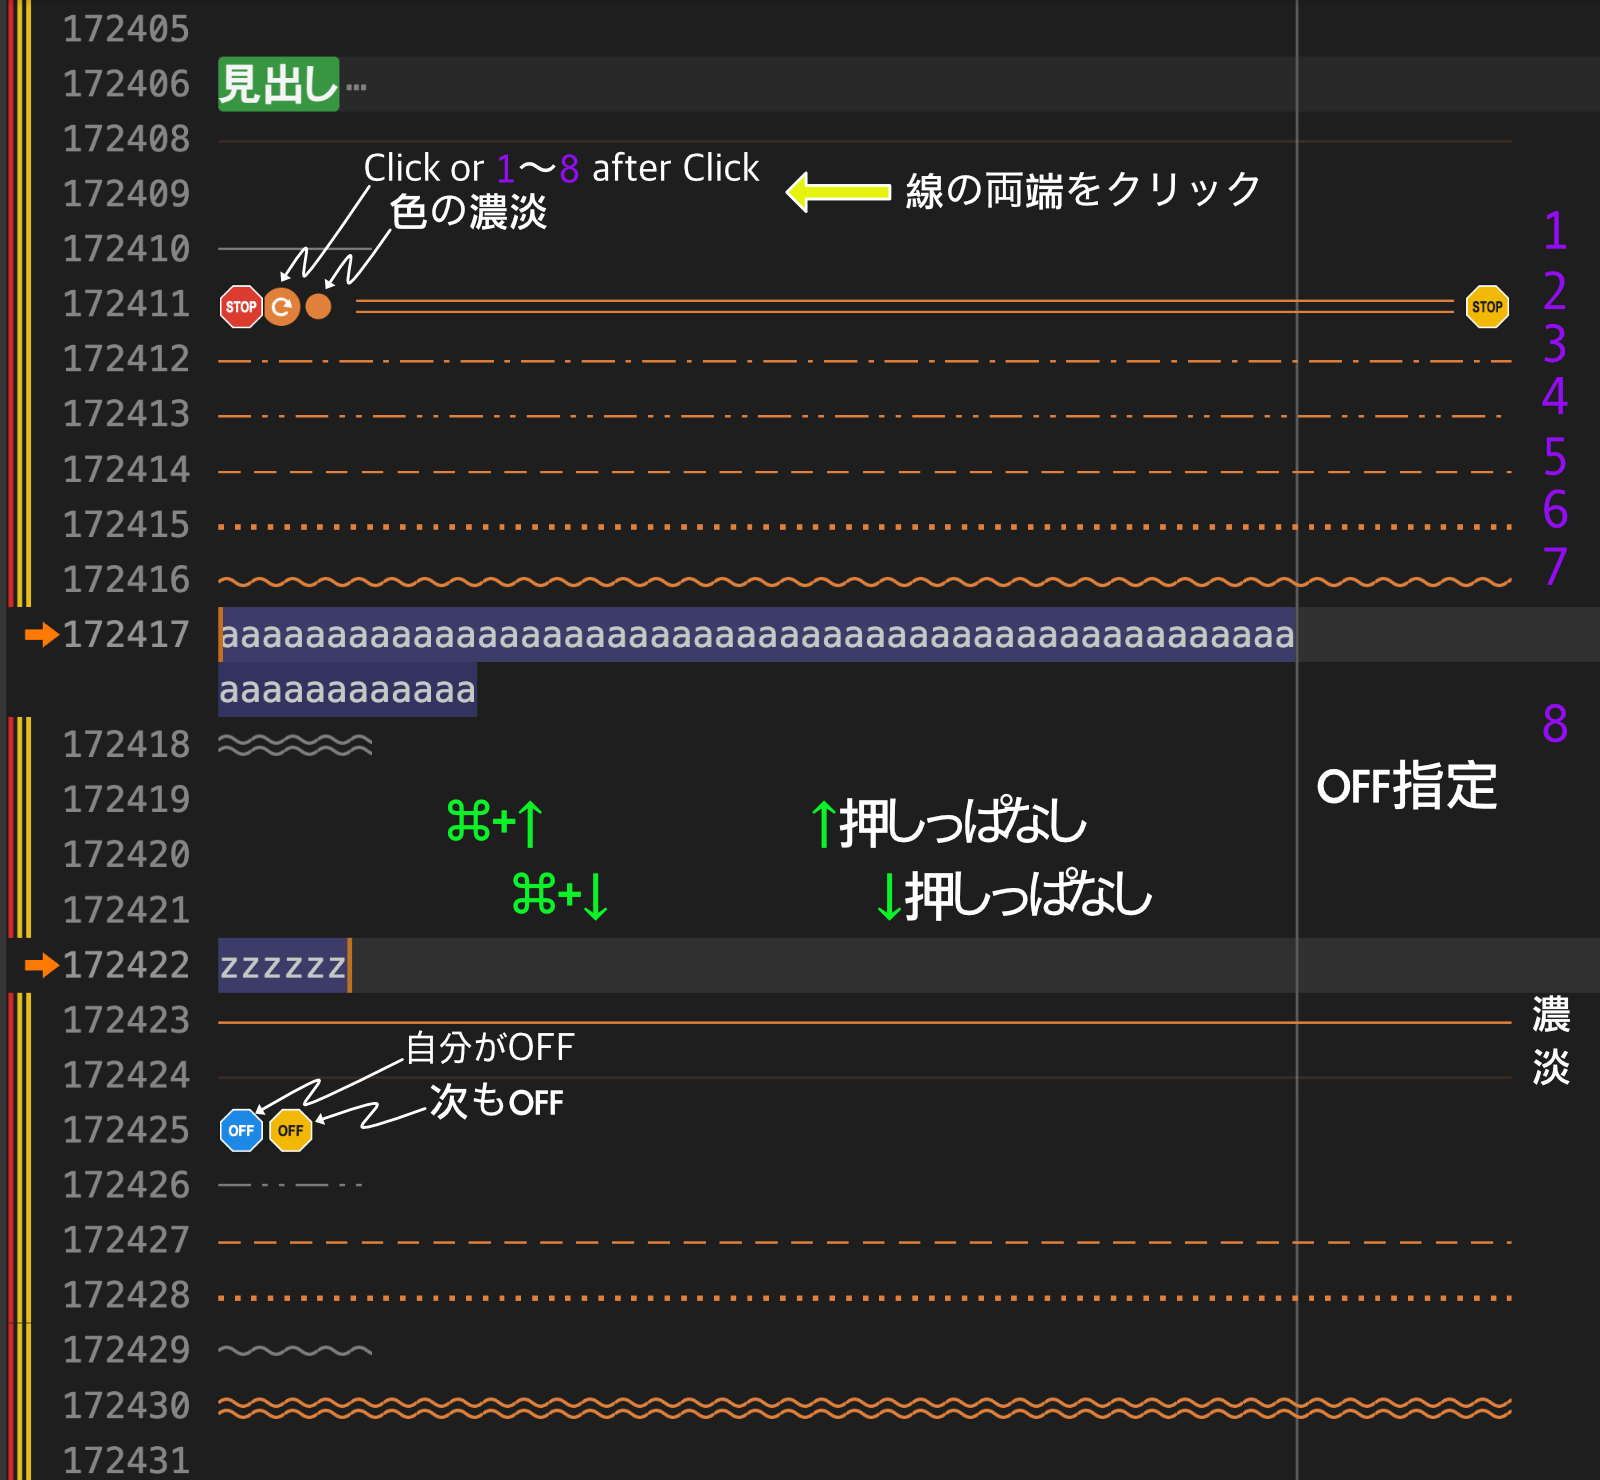
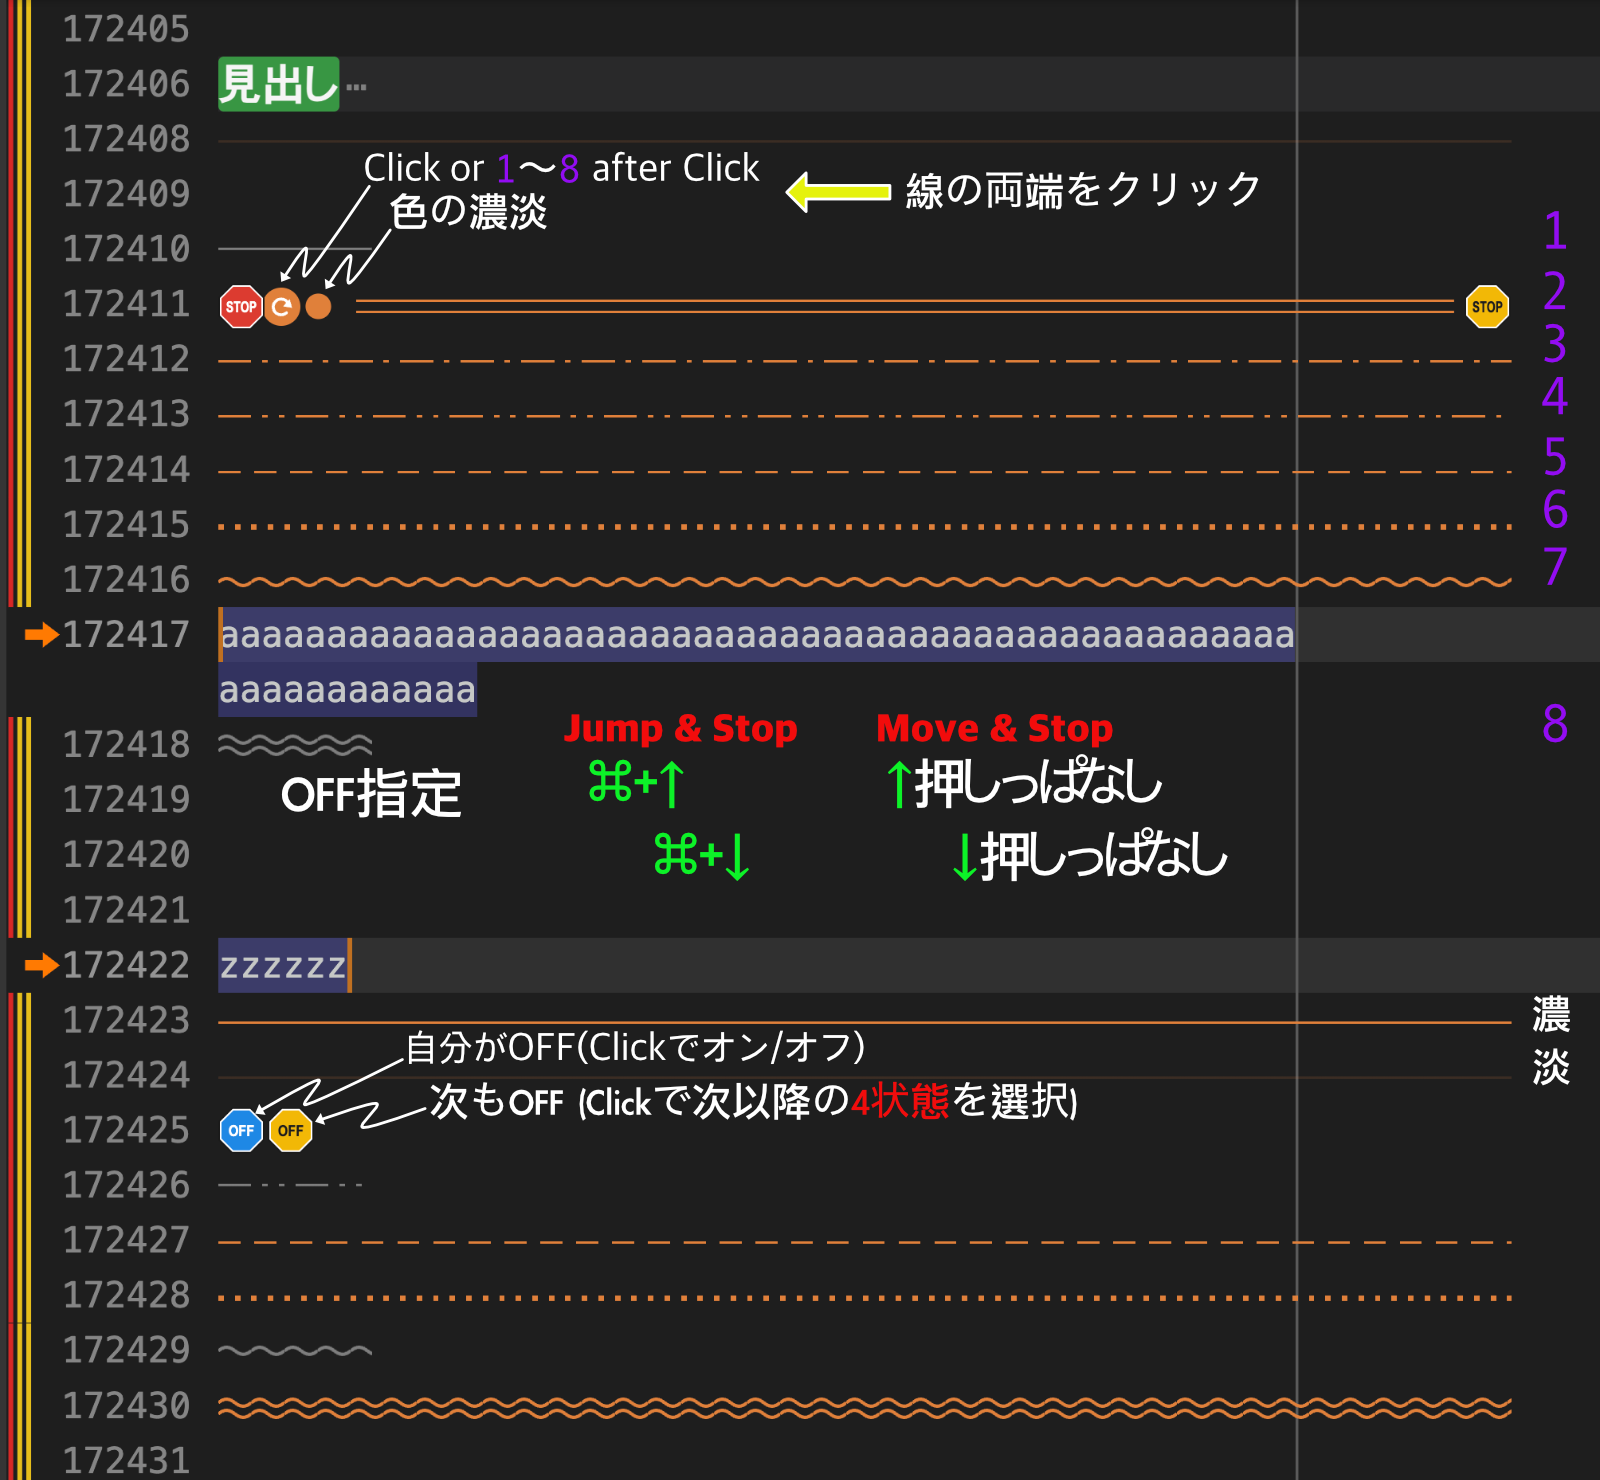
v5.1.771: ヒーロー画像#3をver5に差し替え(Jump & Stop / Move & Stop・OFFの札の説明)

diff --git a/CHANGELOG.md b/CHANGELOG.md
@@ -4,7 +4,7 @@ _Detailed per-version development notes. Moved here from README to keep the READ
 
 ## v5.1 era (2026-11 →)
 
-### v5.1.770 (2026-11-15) — the first public v5.1
+### v5.1.771 (2026-11-15) — the first public v5.1
 - **🔐 Encrypt a membrane.** **Encrypt Me** locks a membrane with a passphrase. The file only ever holds the ciphertext; the plain text lives on the screen while it is unlocked, and Raw mode shows the ciphertext.
 - **🙈 A blind over what you unlocked.** An unlocked membrane stays covered by a white blind — only the line with the cursor shows. The 🙈 on its first line shows everything. After a short time away, the whole membrane is covered, the cursor line too.
 - **🪑 The away timer.** 🪑 3 minutes, 🛋 15, 💺 30 (each 3–60): when nobody touches the Mac that long, MeOS saves, locks every 🔐 membrane and quits VSCodium. Your clocks keep ringing from wGATE. Before it closes, the pointer is parked on the valley of the M in the big mGATE logo under the menu bar — come back, wake the Mac and click without moving the mouse, and MeOS opens again.
